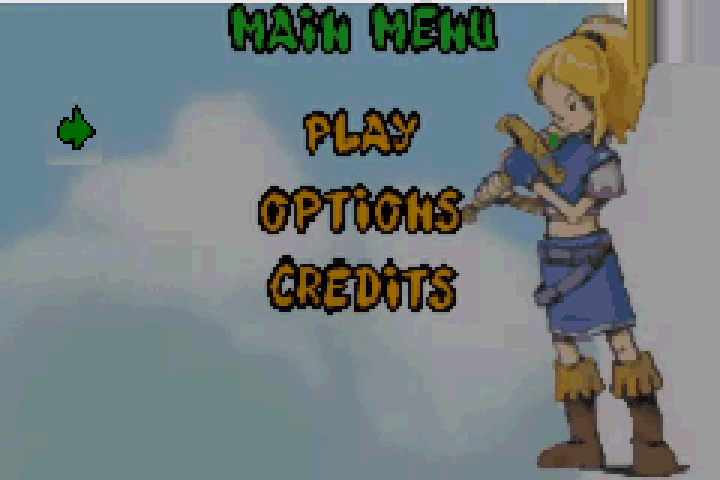
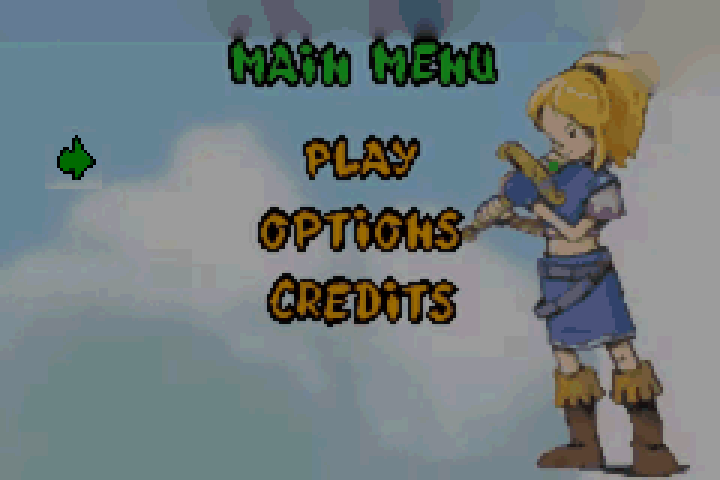
Save measured menu alignment evidence and quality priority [skip ci]

diff --git a/references/MENU_CURSOR_ALIGNMENT_STATUS.md b/references/MENU_CURSOR_ALIGNMENT_STATUS.md
@@ -21,3 +21,18 @@ Le schermate OPTIONS, pausa e crediti sono ancora interfacce provvisorie. La
 geometria dei livelli e le parti nascoste della grafica restano da rifinire.
 Questo intervento corregge un errore misurabile e non completa nuovi livelli.
 Nessun test su hardware reale è dichiarato.
+
+## Evidenza della build
+
+GitHub Actions 43725681183 sul commit `99fe7d31fe1732919e91b709178c59e522a4f625`:
+pipeline completa superata. Il rapporto mGBA conferma coordinate misurate,
+cursore unico, tile corretto e selezione circolare in entrambe le direzioni.
+Passano anche i 588 fotogrammi dell'intro e la riapertura SRAM.
+
+Il confronto delle catture PLAY conserva esattamente tutti i pixel esterni
+alla regione del cursore; il fondale non viene modificato. Il pacchetto contiene
+115 screenshot reali. Le tre selezioni sono versionate in `previews/menu_v06.png`,
+`previews/menu_options_selection.png` e `previews/menu_credits_selection.png`.
+
+ROM: 21.298.828 byte. SHA-256:
[1 lines of base64/hex data omitted]

diff --git a/AGENTS.md b/AGENTS.md
@@ -9,4 +9,5 @@
 - End each milestone with a recoverable source commit and state what remains unfinished. Do not imply unattended work continues after the session ends.
 
 - User priority: advance the contiguous playable route in larger milestones. Provisional collision geometry is authorized when clearly labeled; fix blocking errors immediately, then refine fidelity. Raise the weighted estimate only for implemented and verified work.
+- User quality priority (15 November 2026): compare graphics with the supplied native references and inspect real ROM captures. Correct the visible defects addressed by each milestone before delivery, preserve observed pixels, and identify estimated regions.
 
